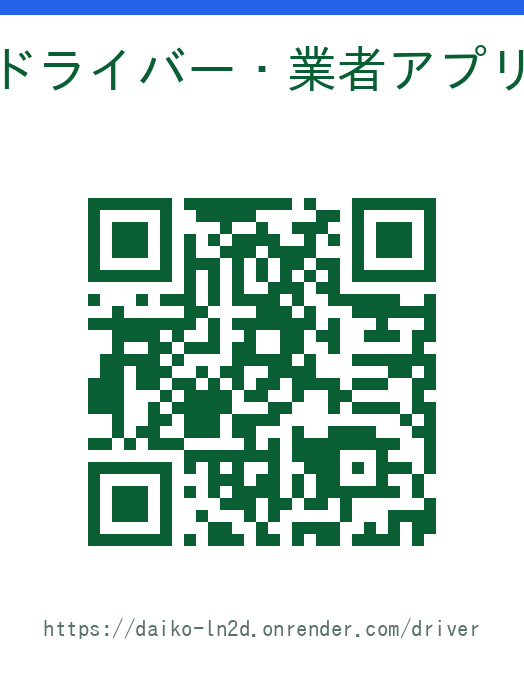
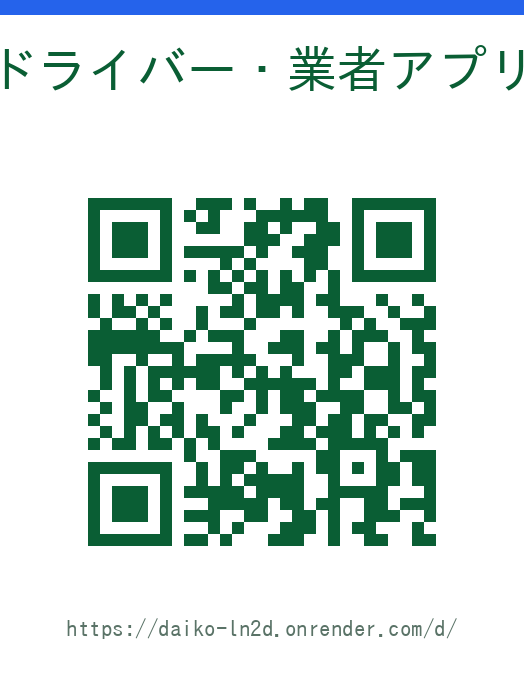
Android 3アプリ化：役割ごとにPWA scopeを分離（/・/d/・/admin/）
- 認証URLを各scope配下へ移設（endpoint名は不変でurl_forは無変更）：
  ドライバーログイン→/d/login、業者登録→/d/register、管理ログイン→/admin/login
- /d/・/admin/ のトップを「未ログイン=入口／ログイン済=本体」に
- 旧URL(/driver,/staff,/auth/driver/login等)は新URLへリダイレクト（互換）
- manifestの scope/start_url を役割別に（customer=/、driver=/d/、admin=/admin/）
  → Androidでも別アプリとして個別インストール可能に
- ドライバーQRを新URL(/d/)で再生成／回帰テスト追加

Claude-Session: https://claude.ai/code/session_01VVuqWRyhNDK7Zx8P4Ac34D

Changed region(s): [[0.1527, 0.2763, 0.855, 0.7982], [0.0916, 0.8904, 0.916, 0.9518]]

diff --git a/daiko/blueprints/main.py b/daiko/blueprints/main.py
@@ -1,7 +1,7 @@
 """共通ルート — ランディング、ロール選択、PWA、通知API."""
 from __future__ import annotations
 
-from flask import Blueprint, current_app, jsonify, render_template, request
+from flask import Blueprint, current_app, jsonify, redirect, render_template, request, url_for
 
 from ..auth import current_admin, current_customer, current_driver
 from ..extensions import db
@@ -18,14 +18,30 @@ def index():
 
 @bp.route("/driver")
 def driver_entry():
-    """ドライバー・業者専用の入口."""
-    return render_template("entry_driver.html", driver=current_driver())
+    """ドライバー入口（旧URL）→ ドライバーアプリ領域 /d/ へ."""
+    return redirect(url_for("driver.dashboard"))
 
 
 @bp.route("/staff")
 def staff_entry():
-    """管理者専用の入口."""
-    return render_template("entry_admin.html", admin=current_admin())
+    """管理者入口（旧URL）→ 管理アプリ領域 /admin/ へ."""
+    return redirect(url_for("admin.dashboard"))
+
+
+# 旧・認証URLの互換リダイレクト（既存のブックマーク／ホーム画面アイコン対策）
+@bp.route("/auth/driver/login")
+def _legacy_driver_login():
+    return redirect(url_for("auth.driver_login"))
+
+
+@bp.route("/auth/vendor/register")
+def _legacy_vendor_register():
+    return redirect(url_for("auth.vendor_register"))
+
+
+@bp.route("/auth/admin/login")
+def _legacy_admin_login():
+    return redirect(url_for("auth.admin_login"))
 
 
 @bp.route("/healthz")
@@ -43,21 +59,22 @@ def manifest(app_kind: str | None = None):
     開くと各アプリのトップが起動する。Android では manifest の URL・id・scope・
     アイコンをすべて別にすることで、別アプリとして個別インストールされやすくなる。
     """
-    # (表示名, start_url, アイコンの接頭辞)  ※役割ごとに色違いアイコンで区別
+    # (表示名, start_url, scope, アイコンの接頭辞)
+    # scope を役割ごとに分けることで Android でも「別アプリ」として個別インストールできる。
     apps = {
-        "customer": ("お客様の窓口", "/", "icon"),
-        "driver": ("ドライバーの窓口", "/driver", "icon-driver"),
-        "admin": ("管理者の窓口", "/staff", "icon-admin"),
+        "customer": ("お客様の窓口", "/", "/", "icon"),
+        "driver": ("ドライバーの窓口", "/d/", "/d/", "icon-driver"),
+        "admin": ("管理者の窓口", "/admin/", "/admin/", "icon-admin"),
     }
     kind = app_kind or request.args.get("app", "customer")
-    name, start, ic = apps.get(kind, apps["customer"])
+    name, start, scope, ic = apps.get(kind, apps["customer"])
     data = {
         "id": start,
         "name": name,
         "short_name": name,
         "description": "運転代行マッチング — 宇都宮市の運転代行をスマホで",
         "start_url": start,
-        "scope": "/",
+        "scope": scope,
         "display": "standalone",
         "background_color": "#ffffff",
         "theme_color": "#00c46a",

diff --git a/daiko/blueprints/auth.py b/daiko/blueprints/auth.py
@@ -35,13 +35,15 @@ from ..models import (
 from ..services import sms
 from ..services.notifications import notify_admins
 
-bp = Blueprint("auth", __name__, url_prefix="/auth")
+# prefixは付けず、ルートごとに「役割のscope配下」の絶対パスを指定する
+# （PWAを役割別に分離＝Androidで別アプリ化するため）。エンドポイント名は不変。
+bp = Blueprint("auth", __name__)
 
 
 # ─────────────────────────────────────────────
 # お客様：電話番号 + SMS 認証コード（パスワード不要）
 # ─────────────────────────────────────────────
-@bp.route("/customer/login", methods=["GET", "POST"])
+@bp.route("/auth/customer/login", methods=["GET", "POST"])
 def customer_login():
     if current_customer() is not None:
         return redirect(url_for("customer.home"))
@@ -60,7 +62,7 @@ def customer_login():
     return render_template("auth/customer_login.html")
 
 
-@bp.route("/customer/verify", methods=["POST"])
+@bp.route("/auth/customer/verify", methods=["POST"])
 def customer_verify():
     phone = sms.normalize_phone(request.form.get("phone", ""))
     code = request.form.get("code", "")
@@ -85,7 +87,7 @@ def customer_verify():
 # ─────────────────────────────────────────────
 # ドライバー：電話番号 + パスワード
 # ─────────────────────────────────────────────
-@bp.route("/driver/login", methods=["GET", "POST"])
+@bp.route("/d/login", methods=["GET", "POST"])
 def driver_login():
     if request.method == "POST":
         phone = sms.normalize_phone(request.form.get("phone", ""))
@@ -110,7 +112,7 @@ def driver_login():
 # 業者登録（認定書アップロード → 管理者承認）
 # 初回は代表ドライバー1名を同時に作成する
 # ─────────────────────────────────────────────
-@bp.route("/vendor/register", methods=["GET", "POST"])
+@bp.route("/d/register", methods=["GET", "POST"])
 def vendor_register():
     if request.method == "POST":
         form = request.form
@@ -199,7 +201,7 @@ def admin_login():
 # ─────────────────────────────────────────────
 # ログアウト
 # ─────────────────────────────────────────────
-@bp.route("/logout/<role>")
+@bp.route("/auth/logout/<role>")
 def do_logout(role: str):
     if role in {"customer", "driver", "admin"}:
         logout(role)

diff --git a/daiko/tests/test_flows.py b/daiko/tests/test_flows.py
@@ -32,26 +32,42 @@ def test_customer_sms_login_flow(client, app):
 
 
 def test_driver_login_and_dashboard(client, seed_data):
-    r = client.post("/auth/driver/login", data={"phone": "09000000001", "password": "pass123"})
+    # ログインはドライバーapp領域 /d/login に移設
+    r = client.post("/d/login", data={"phone": "09000000001", "password": "pass123"})
     assert r.status_code == 302
     r = client.get("/d/")
     assert r.status_code == 200
     assert "近くの依頼".encode() in r.data
 
 
+def test_driver_entry_shown_when_not_logged_in(client, seed_data):
+    # 未ログインで /d/ を開くとドライバー入口が表示される
+    r = client.get("/d/")
+    assert r.status_code == 200
+    assert "ドライバー".encode() in r.data
+
+
 def test_admin_login_required(client):
-    # 未ログインは管理画面に入れずログインへ
-    r = client.get("/admin/", follow_redirects=False)
+    # 未ログインで保護ルートはログインへ（/admin/login に移設）
+    r = client.get("/admin/customers", follow_redirects=False)
     assert r.status_code == 302
-    assert "/auth/admin/login" in r.headers["Location"]
+    assert "/admin/login" in r.headers["Location"]
 
 
 def test_admin_login_and_dashboard(client, seed_data):
-    r = client.post("/auth/admin/login", data={"login_id": "admin", "password": "adminpass"})
+    r = client.post("/admin/login", data={"login_id": "admin", "password": "adminpass"})
     assert r.status_code == 302
     r = client.get("/admin/")
     assert r.status_code == 200
     assert "ダッシュボード".encode() in r.data
+
+
+def test_legacy_urls_redirect(client):
+    # 旧URLは新URLへリダイレクト（既存ブックマーク互換）
+    assert "/d/" in client.get("/driver").headers["Location"]
+    assert "/admin/" in client.get("/staff").headers["Location"]
+    assert "/d/login" in client.get("/auth/driver/login").headers["Location"]
+    assert "/admin/login" in client.get("/auth/admin/login").headers["Location"]
 
 
 def test_admin_delete_request_route(client, app, seed_data):

diff --git a/daiko/blueprints/driver.py b/daiko/blueprints/driver.py
@@ -3,7 +3,7 @@ from __future__ import annotations
 
 from flask import Blueprint, flash, g, jsonify, redirect, render_template, request, url_for
 
-from ..auth import driver_required
+from ..auth import current_driver, driver_required
 from ..extensions import db
 from ..models import Entry, EntryStatus, Request, RequestStatus
 from ..services import matching
@@ -14,9 +14,12 @@ bp = Blueprint("driver", __name__, url_prefix="/d")
 
 
 @bp.route("/")
-@driver_required
 def dashboard():
-    return render_template("driver/dashboard.html", driver=g.driver)
+    """ドライバーアプリのトップ。未ログインは入口(ログイン/業者登録)、ログイン済みは画面本体。"""
+    driver = current_driver()
+    if driver is None:
+        return render_template("entry_driver.html", driver=None)
+    return render_template("driver/dashboard.html", driver=driver)
 
 
 @bp.route("/requests.json")

diff --git a/daiko/blueprints/admin.py b/daiko/blueprints/admin.py
@@ -16,7 +16,7 @@ from flask import (
     url_for,
 )
 
-from ..auth import admin_required
+from ..auth import admin_required, current_admin
 from ..extensions import db
 from ..models import (
     Customer,
@@ -33,8 +33,10 @@ bp = Blueprint("admin", __name__, url_prefix="/admin")
 
 
 @bp.route("/")
-@admin_required
 def dashboard():
+    """管理アプリのトップ。未ログインは入口(ログイン)、ログイン済みは概況."""
+    if current_admin() is None:
+        return render_template("entry_admin.html", admin=None)
     since = datetime.utcnow() - timedelta(days=1)
     stats = {
         "today_requests": Request.query.filter(Request.created_at >= since).count(),

diff --git a/daiko/tests/test_matching.py b/daiko/tests/test_matching.py
@@ -181,7 +181,7 @@ def test_suspended_vendor_driver_cannot_login(app, seed_data, client):
         v = db.session.get(Vendor, seed_data["vendor_id"])
         v.status = VendorStatus.SUSPENDED
         db.session.commit()
-    r = client.post("/auth/driver/login",
+    r = client.post("/d/login",
                     data={"phone": "09000000001", "password": "pass123"},
                     follow_redirects=True)
     body = r.get_data(as_text=True)
